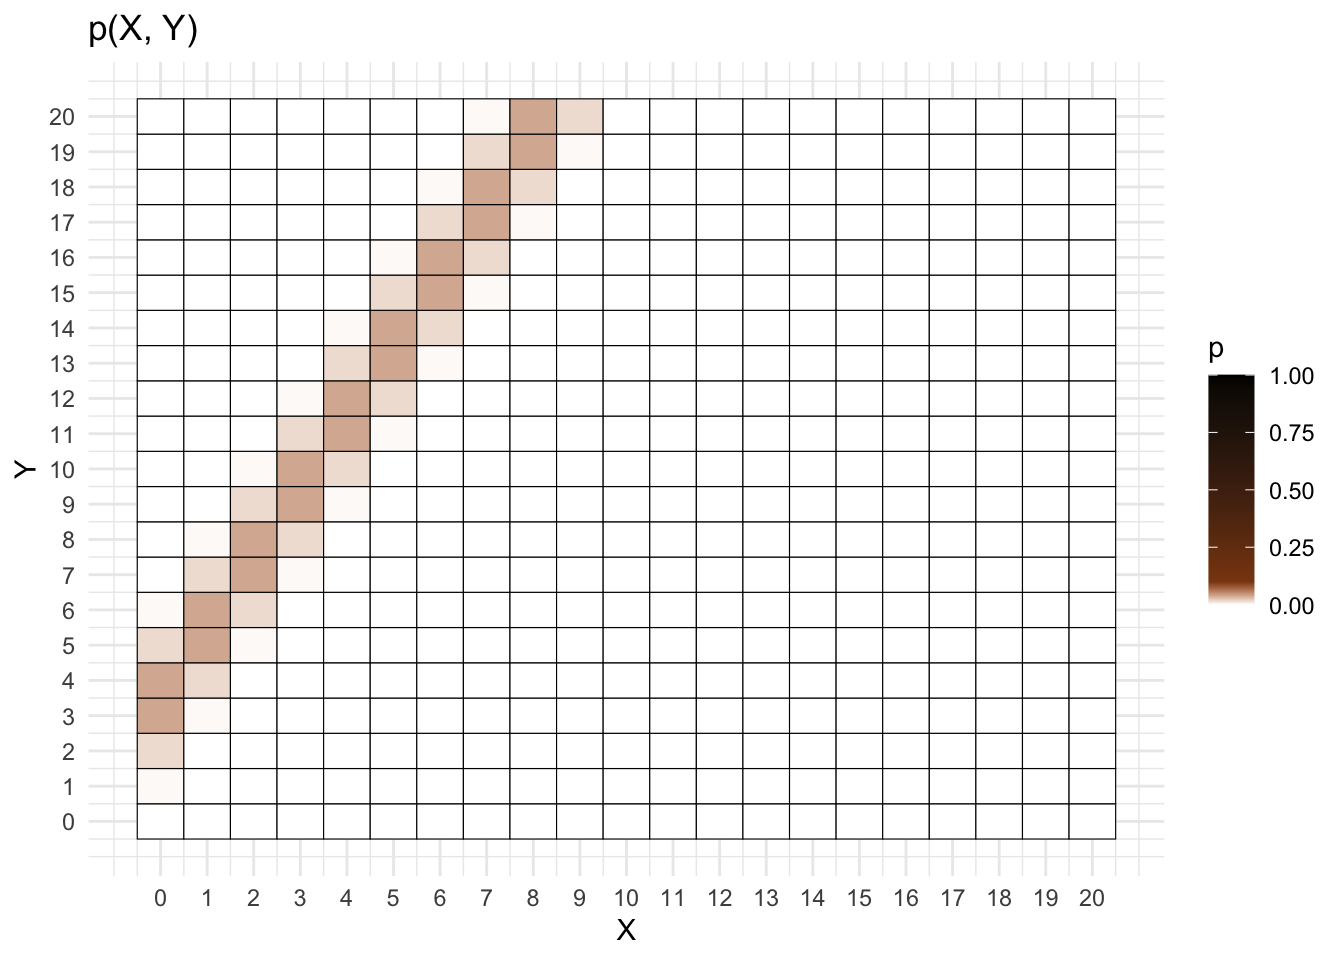
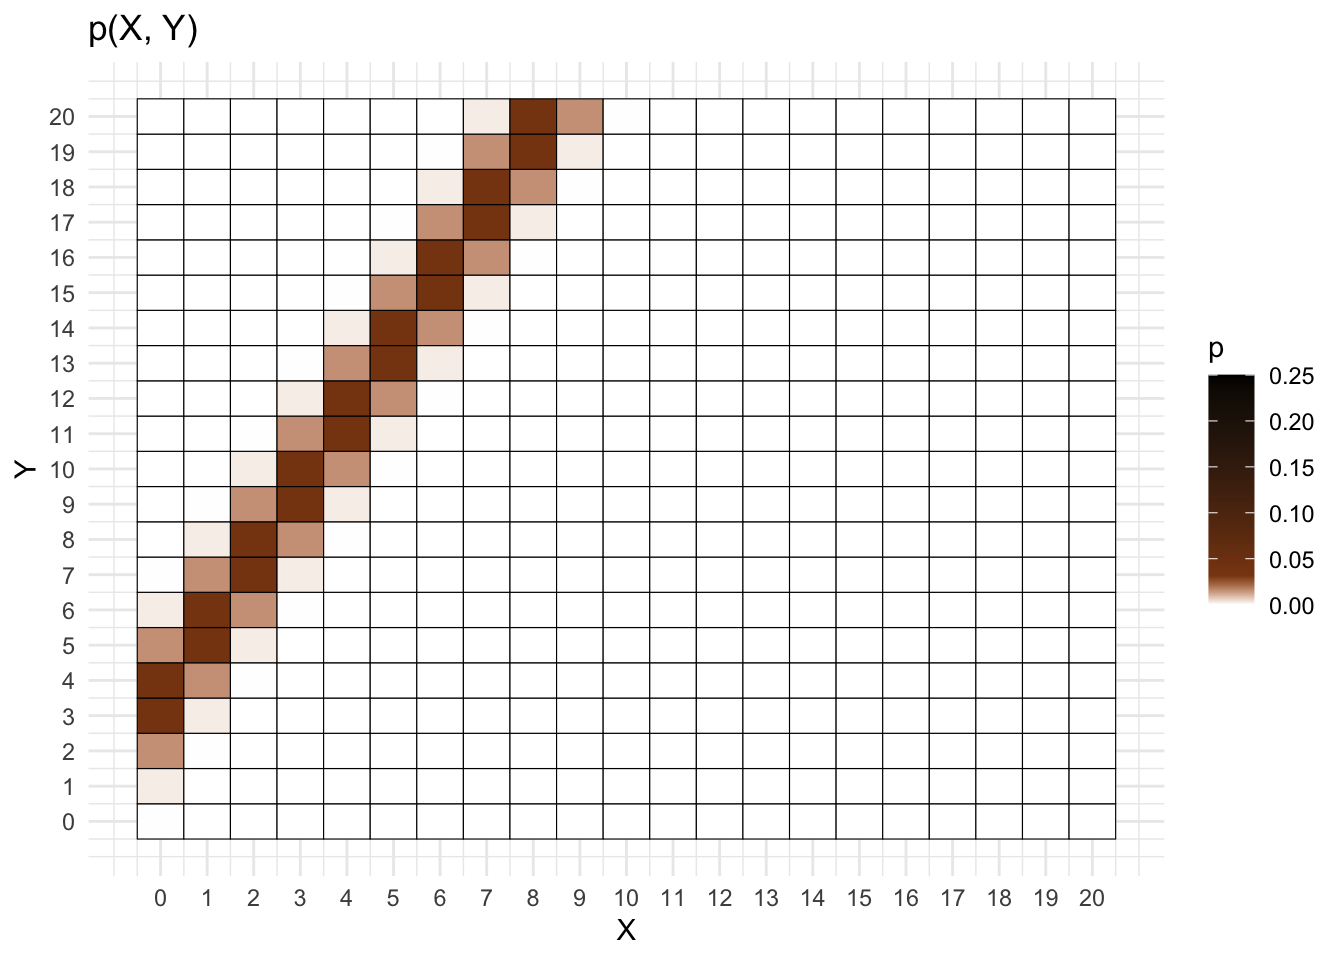
Minor edits to the color scale

diff --git a/lectures/linear_models/playground.html b/lectures/linear_models/playground.html
@@ -133,8 +133,8 @@ pre > code.sourceCode > span > a:first-child::before { text-decoration: underlin
 <span id="cb2-11"><a href="#cb2-11" aria-hidden="true" tabindex="-1"></a>    <span class="fu">gf_refine</span>(</span>
 <span id="cb2-12"><a href="#cb2-12" aria-hidden="true" tabindex="-1"></a>      <span class="fu">scale_fill_gradientn</span>(</span>
 <span id="cb2-13"><a href="#cb2-13" aria-hidden="true" tabindex="-1"></a>        <span class="at">colors =</span> <span class="fu">c</span>(<span class="st">"white"</span>,<span class="st">"chocolate4"</span>,<span class="st">"black"</span>),</span>
-<span id="cb2-14"><a href="#cb2-14" aria-hidden="true" tabindex="-1"></a>        <span class="at">values =</span> <span class="fu">c</span>(<span class="dv">0</span>, <span class="fl">0.1</span>, <span class="dv">1</span>),</span>
-<span id="cb2-15"><a href="#cb2-15" aria-hidden="true" tabindex="-1"></a>        <span class="at">limits =</span> <span class="fu">c</span>(<span class="dv">0</span>, <span class="dv">1</span>)</span>
+<span id="cb2-14"><a href="#cb2-14" aria-hidden="true" tabindex="-1"></a>        <span class="at">values =</span> <span class="fu">c</span>(<span class="dv">0</span>, <span class="fl">0.125</span>, <span class="dv">1</span>),</span>
+<span id="cb2-15"><a href="#cb2-15" aria-hidden="true" tabindex="-1"></a>        <span class="at">limits =</span> <span class="fu">c</span>(<span class="dv">0</span>, <span class="fl">0.25</span>)</span>
 <span id="cb2-16"><a href="#cb2-16" aria-hidden="true" tabindex="-1"></a>      ),</span>
 <span id="cb2-17"><a href="#cb2-17" aria-hidden="true" tabindex="-1"></a>      <span class="fu">scale_x_continuous</span>(<span class="at">breaks =</span> <span class="fu">seq</span>(<span class="dv">0</span>, max_x)),</span>
 <span id="cb2-18"><a href="#cb2-18" aria-hidden="true" tabindex="-1"></a>      <span class="fu">scale_y_continuous</span>(<span class="at">breaks =</span> <span class="fu">seq</span>(<span class="dv">0</span>, max_y))</span>
